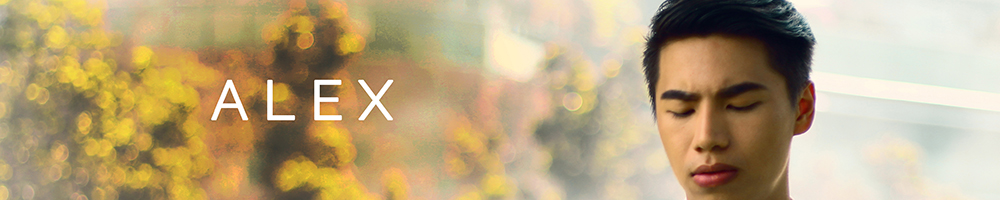
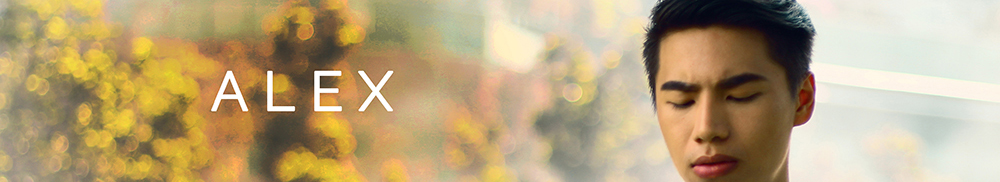
v3.3
Fixed Synopsis page
Make the banners in Cast page thinner

diff --git a/index.html b/index.html
@@ -94,11 +94,11 @@
 			  </div>
                 
 			  <div class="col-md-6 col-sm-12">
-                <img class="img-responsive" style="visibility:hidden;" src="./img/sangpengibar_logo_simple.png" alt="sangpengibar_logo">
-                <h1 class="lead4" align="center" >GAYA 2017: KISAR</h3>
+<!--                <img class="img-responsive" style="visibility:hidden;" src="./img/sangpengibar_logo_simple.png" alt="sangpengibar_logo">-->
+                <h1 class="lead4" align="left" >GAYA 2017: KISAR</h3>
 				<p class="lead2" align="justify">Alex is a young and successful Indonesian businessman who takes pride in his successes and lavish life to the extent that it blinds him from the people whom he owed his successes to.<br/>
 				Knowing the situation, a kind-hearted mentalist helps him by making him live in his own dream in Cirebon, Indonesia in the 1800s - the setting of the longest forgotten history in Indonesia.<br/>
-				Although Alex is wowed by the uniqueness of Indonesias arts and culture, he faces many challenges which put his love for the one and only to the test.</p>
+				Although Alex is wowed by the uniqueness of Indonesia's arts and culture, he faces many challenges which put his love for the one and only to the test.</p>
 			  </div>
 			</div>
 		  </div>
